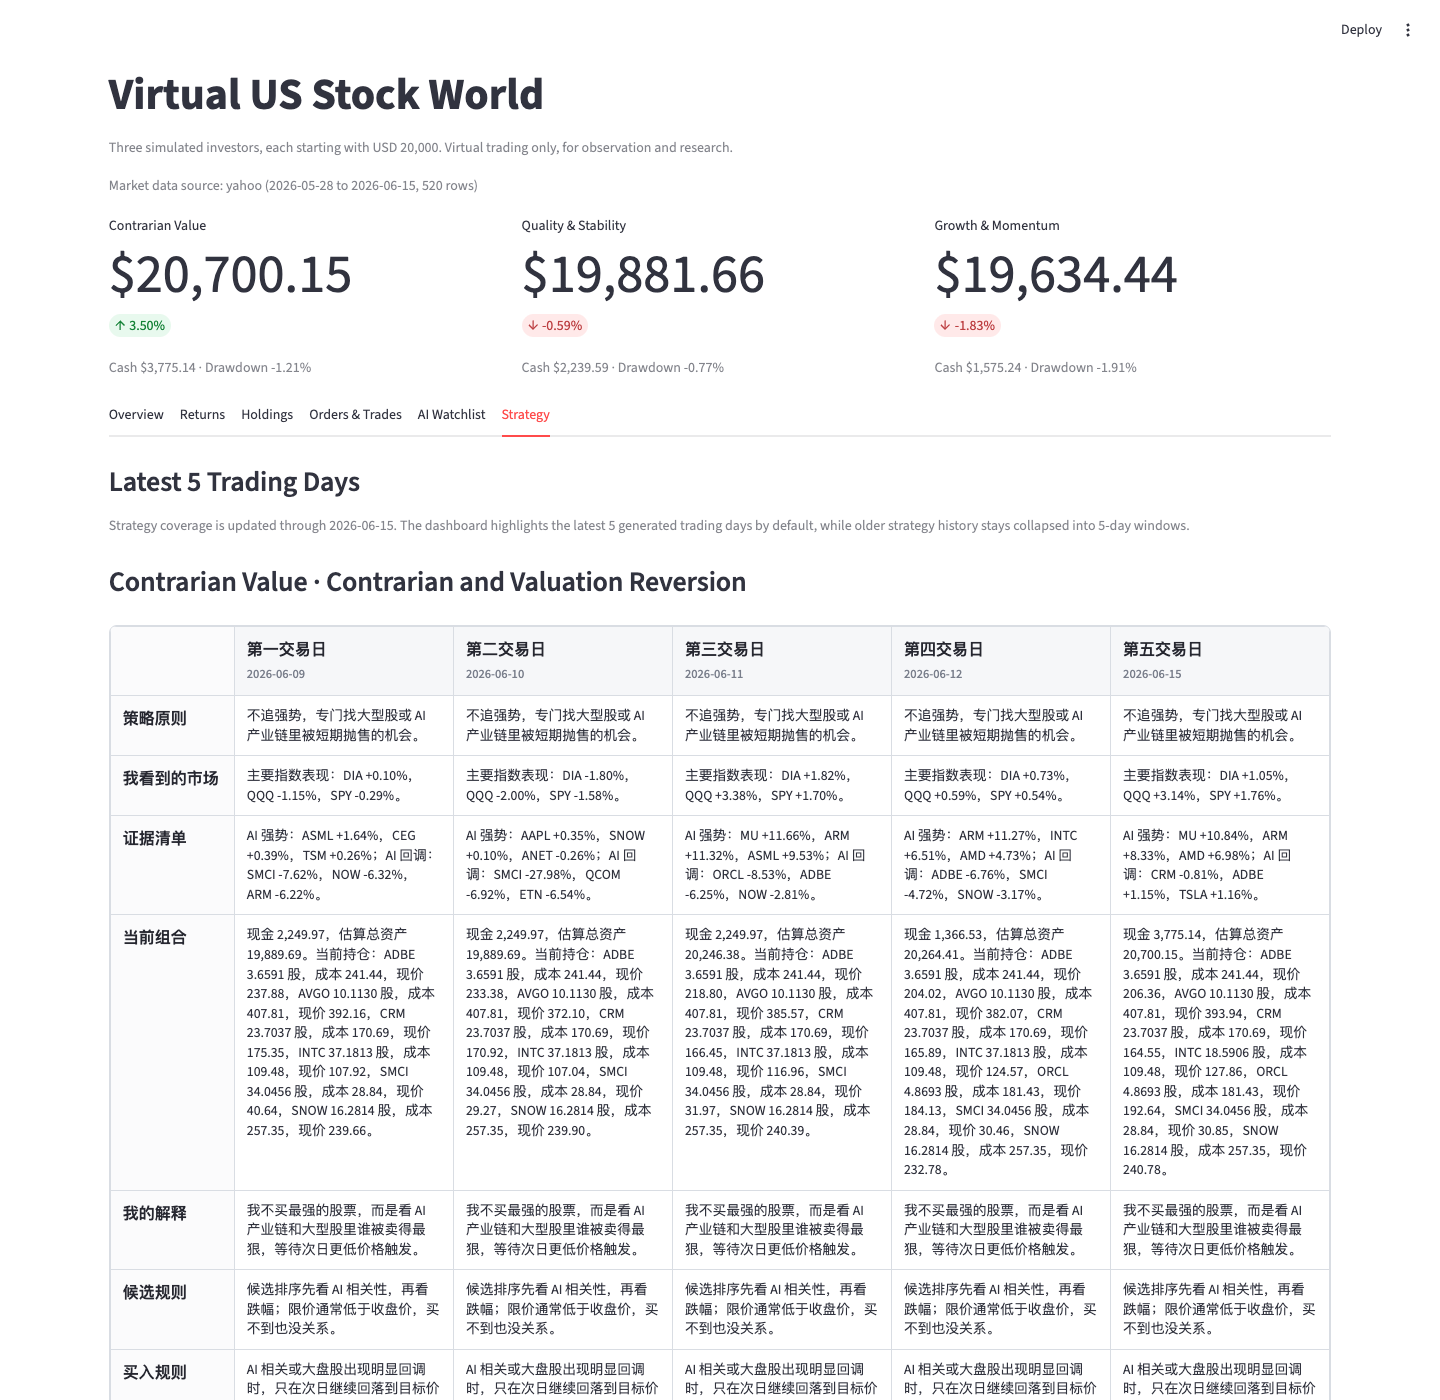
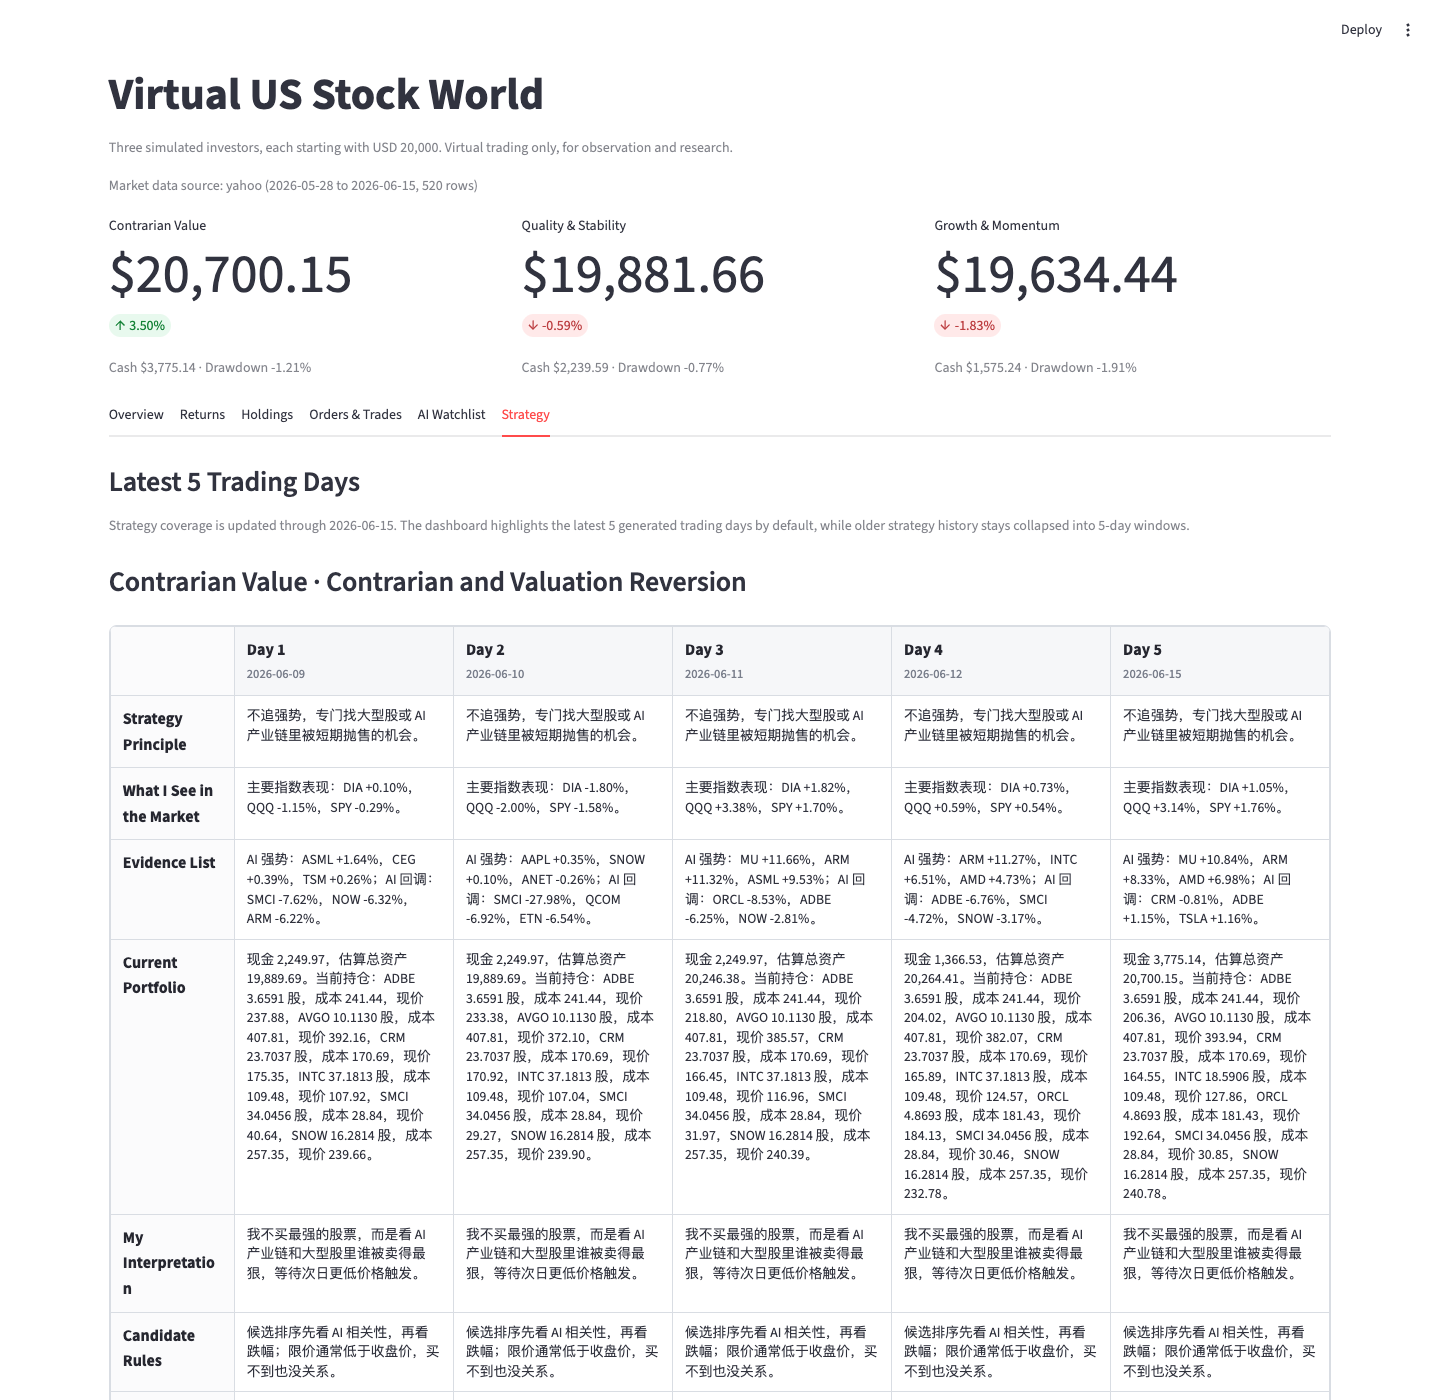
Translate orders view and strategy headers

diff --git a/scripts/capture_readme_screenshots.js b/scripts/capture_readme_screenshots.js
@@ -47,6 +47,17 @@ async function capture() {
         await page.waitForTimeout(1200);
       },
     },
+    {
+      url: "http://127.0.0.1:8501/",
+      path: "assets/screenshots/orders-dashboard.png",
+      viewport: { width: 1440, height: 1400 },
+      fullPage: false,
+      waitFor: { selector: '[data-testid="stAppViewContainer"]' },
+      afterLoad: async (page) => {
+        await page.getByText("Orders & Trades", { exact: true }).click();
+        await page.waitForTimeout(1200);
+      },
+    },
   ];
 
   for (const pageDef of pages) {

diff --git a/app.py b/app.py
@@ -216,6 +216,21 @@ PERSONA_STYLE_MAP = {
     "逆向与估值修复": "Contrarian and Valuation Reversion",
 }
 
+STRATEGY_ROW_MAP = {
+    "策略原则": "Strategy Principle",
+    "我看到的市场": "What I See in the Market",
+    "证据清单": "Evidence List",
+    "当前组合": "Current Portfolio",
+    "我的解释": "My Interpretation",
+    "候选规则": "Candidate Rules",
+    "买入规则": "Buy Rules",
+    "卖出规则": "Sell Rules",
+    "主要风险": "Key Risks",
+    "今日行动": "Today's Plan",
+    "行动": "Orders and Executions",
+    "复盘": "Review",
+}
+
 POSITION_COLUMNS = ["Persona", "Ticker", "Company (Sector)", "AI Tags", "Total Shares", "Cost Basis", "Last Price", "Market Value", "Unrealized P&L"]
 
 
@@ -468,17 +483,19 @@ def action_text_for_date(persona_id: str, day: str, orders_df: pd.DataFrame, tra
     if not trades_df.empty:
         day_trades = trades_df[(trades_df["persona_id"] == persona_id) & (trades_df["trade_date"] == day)]
         for _, trade in day_trades.iterrows():
-            side = "买入" if trade["side"] == "BUY" else "卖出"
-            lines.append(f"- 已成交：{side} {trade['symbol']} {float(trade['quantity']):.4f} 股，价格 {float(trade['price']):.2f}。")
+            side = "Buy" if trade["side"] == "BUY" else "Sell"
+            lines.append(
+                f"- Executed: {side} {trade['symbol']} {float(trade['quantity']):.4f} shares at {float(trade['price']):.2f}."
+            )
     if not orders_df.empty:
         day_orders = orders_df[(orders_df["persona_id"] == persona_id) & (orders_df["plan_date"] == day)]
         for _, order in day_orders.iterrows():
-            side = "买入" if order["side"] == "BUY" else "卖出"
+            side = "Buy" if order["side"] == "BUY" else "Sell"
             status = order["status"]
             lines.append(
-                f"- 计划订单：{side} {order['symbol']} {float(order['quantity']):.4f} 股，限价 {float(order['limit_price']):.2f}，状态 {status}。"
+                f"- Planned order: {side} {order['symbol']} {float(order['quantity']):.4f} shares, limit {float(order['limit_price']):.2f}, status {status}."
             )
-    return "\n".join(lines) if lines else "- 当日没有成交或新增订单。"
+    return "\n".join(lines) if lines else "- No executions or new orders for this day."
 
 
 STRATEGY_ROWS = [
@@ -526,9 +543,9 @@ def html_text(value: object) -> str:
 
 
 def day_heading(index: int, report_date: str) -> str:
-    names = ["第一交易日", "第二交易日", "第三交易日", "第四交易日", "第五交易日"]
-    label = names[index] if index < len(names) else f"第{index + 1}交易日"
-    date_label = escape(report_date) if report_date else "等待生成"
+    names = ["Day 1", "Day 2", "Day 3", "Day 4", "Day 5"]
+    label = names[index] if index < len(names) else f"Day {index + 1}"
+    date_label = escape(report_date) if report_date else "Waiting"
     return f"{label}<span class=\"day-date\">{date_label}</span>"
 
 
@@ -593,7 +610,7 @@ def render_strategy_matrix(
                 + strategy_cell(str(persona["id"]), report_date, label, report_row, orders_df, trades_df)
                 + "</td>"
             )
-        body_rows.append(f"<tr><td class=\"row-label\">{escape(label)}</td>{''.join(cells)}</tr>")
+        body_rows.append(f"<tr><td class=\"row-label\">{escape(STRATEGY_ROW_MAP.get(label, label))}</td>{''.join(cells)}</tr>")
 
     table_html = (
         '<div class="strategy-matrix-wrap">'
@@ -711,7 +728,7 @@ with tabs[1]:
 
 with tabs[2]:
     if trades.empty:
-        st.info("暂无成交记录。")
+        st.info("No executed trades yet.")
     else:
         ledger, trade_histories = build_position_ledger(trades, personas, symbols, latest_prices)
         render_position_ledger(ledger, trade_histories)
@@ -719,48 +736,48 @@ with tabs[2]:
 with tabs[3]:
     st.subheader("Orders")
     if orders.empty:
-        st.info("暂无订单。")
+        st.info("No orders yet.")
     else:
         order_view = orders.merge(personas, left_on="persona_id", right_on="id")
         st.dataframe(
             order_view.rename(
                 columns={
-                    "name": "虚拟人",
-                    "symbol": "股票",
-                    "side": "方向",
-                    "quantity": "股数",
-                    "limit_price": "计划价",
-                    "status": "状态",
-                    "plan_date": "计划日",
-                    "valid_date": "有效日",
-                    "execution_price": "成交价",
-                    "miss_reason": "未成交原因",
-                    "reason": "理由",
+                    "name": "Persona",
+                    "symbol": "Ticker",
+                    "side": "Side",
+                    "quantity": "Shares",
+                    "limit_price": "Limit Price",
+                    "status": "Status",
+                    "plan_date": "Plan Date",
+                    "valid_date": "Valid Date",
+                    "execution_price": "Execution Price",
+                    "miss_reason": "Miss Reason",
+                    "reason": "Reason",
                 }
             )[
-                ["计划日", "有效日", "虚拟人", "股票", "方向", "股数", "计划价", "状态", "成交价", "未成交原因", "理由"]
+                ["Plan Date", "Valid Date", "Persona", "Ticker", "Side", "Shares", "Limit Price", "Status", "Execution Price", "Miss Reason", "Reason"]
             ],
             width="stretch",
             hide_index=True,
         )
     st.subheader("Trades")
     if trades.empty:
-        st.info("暂无成交。")
+        st.info("No trades yet.")
     else:
         trade_view = trades.merge(personas, left_on="persona_id", right_on="id")
         st.dataframe(
             trade_view.rename(
                 columns={
-                    "trade_date": "成交日",
-                    "name": "虚拟人",
-                    "symbol": "股票",
-                    "side": "方向",
-                    "quantity": "股数",
-                    "price": "价格",
-                    "amount": "金额",
-                    "reason": "理由",
+                    "trade_date": "Trade Date",
+                    "name": "Persona",
+                    "symbol": "Ticker",
+                    "side": "Side",
+                    "quantity": "Shares",
+                    "price": "Price",
+                    "amount": "Amount",
+                    "reason": "Reason",
                 }
-            )[["成交日", "虚拟人", "股票", "方向", "股数", "价格", "金额", "理由"]],
+            )[["Trade Date", "Persona", "Ticker", "Side", "Shares", "Price", "Amount", "Reason"]],
             width="stretch",
             hide_index=True,
         )
@@ -793,7 +810,7 @@ with tabs[4]:
 
 with tabs[5]:
     if reports.empty:
-        st.info("暂无日报。")
+        st.info("No daily reports yet.")
     else:
         dates_desc = sorted(reports["date"].unique(), reverse=True)
         latest_report_date = dates_desc[0]

diff --git a/README.md b/README.md
@@ -58,6 +58,12 @@ The dashboard UI is being translated progressively into English, starting with t
 
 The holdings view now uses English persona labels, English style names, and fully English field labels for position summaries and trade history.
 
+### Orders and Trades Dashboard
+
+![Orders and trades dashboard](assets/screenshots/orders-dashboard.png)
+
+The orders and trades view now uses English table headers for planned orders, execution records, and status tracking.
+
 ## Quick Start
 
 ```bash
@@ -90,6 +96,14 @@ python3 run_daily.py --reset --demo-days 30 --allow-synthetic
 ```
 
 By default, the project uses only real daily market data. If real quotes cannot be fetched, the run fails explicitly instead of silently falling back to demo prices.
+
+## Demo Flow
+
+1. Run `python3 run_daily.py --reset --demo-days 8` to generate a clean demo dataset.
+2. Start the dashboard with `python3 -m streamlit run app.py`.
+3. Open [http://localhost:8501](http://localhost:8501).
+4. Review the `Overview`, `Returns`, `Holdings`, `Orders & Trades`, and `Strategy` tabs in order.
+5. Run `python3 run_daily.py` again on later days to extend the virtual market timeline.
 
 ## Project Structure
 